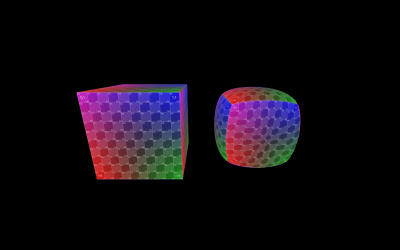
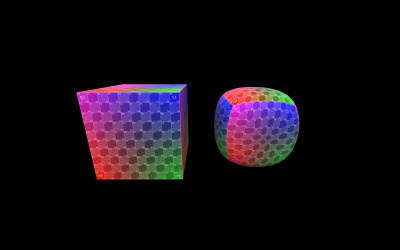
Examples: Updated external subdivision demo (#24930)
* Updated demo to v1.1.2

* Separated wireframe

* Updated screenshot

* Dispose typo

* Simplified lighting

Changed region(s): [[0.51, 0.336, 0.75, 0.672], [0.18, 0.336, 0.48, 0.7]]

diff --git a/examples/webgl_modifier_subdivision.html b/examples/webgl_modifier_subdivision.html
@@ -22,7 +22,7 @@
 				"imports": {
 					"three": "../build/three.module.js",
 					"three/addons/": "./jsm/",
-					"three-subdivide": "https://unpkg.com/three-subdivide@1.0.2/build/index.module.js"
+					"three-subdivide": "https://unpkg.com/three-subdivide@1.1.2/build/index.module.js"
 				}
 			}
 		</script>
@@ -36,16 +36,20 @@
 
 			let renderer, scene, camera;
 			let texture;
-			let meshMaterial, meshNormal, meshSmooth;
-			let wireMaterial, wireNormal, wireSmooth;
+			let meshNormal, meshSmooth;
+			let wireNormal, wireSmooth;
+			let wireMaterial;
 
 			const params = {
 				geometry: 'Box',
 				iterations: 3,
 				split: true,
 				uvSmooth: false,
+				preserveEdges: false,
 				flatOnly: false,
 				maxTriangles: 25000,
+				flatShading: false,
+				textured: true,
 				wireframe: false
 			};
 
@@ -70,6 +74,14 @@
 				controls.target.set( 0, 0, 0 );
 				controls.update();
 
+				scene.add( new THREE.HemisphereLight( 0xffffff, 0x737373, 1 ) );
+
+				const frontLight = new THREE.DirectionalLight( 0xffffff, 0.5 );
+				const backLight = new THREE.DirectionalLight( 0xffffff, 0.5 );
+				frontLight.position.set( 0, 1, 1 );
+				backLight.position.set( 0, 1, - 1 );
+				scene.add( frontLight, backLight );
+
 				texture = new THREE.TextureLoader().load( './textures/uv_grid_opengl.jpg', () => {
 
 					texture.wrapS = THREE.RepeatWrapping;
@@ -79,15 +91,8 @@
 
 				} );
 
-				meshMaterial = new THREE.MeshBasicMaterial( {
-					map: texture,
-					polygonOffset: true,
-					polygonOffsetFactor: 1, // positive value pushes polygon further away
-					polygonOffsetUnits: 1,
-					side: THREE.DoubleSide
-				} );
-				meshNormal = new THREE.Mesh( new THREE.BufferGeometry(), meshMaterial );
-				meshSmooth = new THREE.Mesh( new THREE.BufferGeometry(), meshMaterial );
+				meshNormal = new THREE.Mesh( new THREE.BufferGeometry(), new THREE.MeshBasicMaterial() );
+				meshSmooth = new THREE.Mesh( new THREE.BufferGeometry(), new THREE.MeshBasicMaterial() );
 				meshNormal.position.set( - 0.7, 0, 0 );
 				meshSmooth.position.set( 0.7, 0, 0 );
 				scene.add( meshNormal, meshSmooth );
@@ -114,7 +119,7 @@
 
 					const geom = params.geometry.toLowerCase();
 
-					params.split = geom === 'box' || geom === 'ring';
+					params.split = geom === 'box' || geom === 'ring' || geom === 'plane';
 					params.uvSmooth = geom === 'circle' || geom === 'plane' || geom === 'ring';
 
 					refreshDisplay();
@@ -123,18 +128,22 @@
 
 				folder1.add( params, 'iterations' ).min( 0 ).max( 5 ).step( 1 ).onFinishChange( updateMeshes );
 				const splitController = folder1.add( params, 'split' ).onFinishChange( updateMeshes );
-				const smoothController = folder1.add( params, 'uvSmooth' ).onFinishChange( updateMeshes );
-				folder1.add( params, 'flatOnly' ).onFinishChange ( updateMeshes );
+				const uvSmoothController = folder1.add( params, 'uvSmooth' ).onFinishChange( updateMeshes );
+				const preserveController = folder1.add( params, 'preserveEdges' ).onFinishChange( updateMeshes );
+				folder1.add( params, 'flatOnly' ).onFinishChange( updateMeshes );
 				folder1.add( params, 'maxTriangles' ).onFinishChange( updateMeshes );
 
-				const folder2 = gui.addFolder( 'View' );
-				folder2.add( params, 'wireframe' ).onFinishChange( updateMeshes );
+				const folder2 = gui.addFolder( 'Material' );
+				folder2.add( params, 'flatShading' ).onFinishChange( updateMaterial );
+				folder2.add( params, 'textured' ).onFinishChange( updateMaterial );
+				folder2.add( params, 'wireframe' ).onFinishChange( updateWireframe );
 
 				function refreshDisplay() {
 
 					geomController.updateDisplay();
 					splitController.updateDisplay();
-					smoothController.updateDisplay();
+					uvSmoothController.updateDisplay();
+					preserveController.updateDisplay();
 
 					updateMeshes();
 
@@ -159,7 +168,7 @@
 						return new THREE.ConeGeometry( 0.6, 1.5, 5, 3 );
 
 					case 'cylinder':
-						return new THREE.CylinderGeometry( 0.5, 0.5, 1, 5, 5 );
+						return new THREE.CylinderGeometry( 0.5, 0.5, 1, 5, 4 );
 
 					case 'dodecahedron':
 						return new THREE.DodecahedronGeometry( 0.6 );
@@ -175,8 +184,8 @@
 
 						for ( let i = 0; i < 65; i += 5 ) {
 
-							let x = ( Math.sin( i * 0.2 ) * Math.sin( i * 0.1 ) * 15 + 50 ) * 1.2;
-							let y = ( i - 5 ) * 3;
+							const x = ( Math.sin( i * 0.2 ) * Math.sin( i * 0.1 ) * 15 + 50 ) * 1.2;
+							const y = ( i - 5 ) * 3;
 							points.push( new THREE.Vector2( x * 0.0075, y * 0.005 ) );
 
 						}
@@ -214,14 +223,8 @@
 			function updateMeshes() {
 
 				const normalGeometry = getGeometry();
-				const smoothGeometry = LoopSubdivision.modify(
-					normalGeometry,
-					params.iterations,
-					params.split,
-					params.uvSmooth,
-					params.flatOnly,
-					params.maxTriangles
-				);
+
+				const smoothGeometry = LoopSubdivision.modify( normalGeometry, params.iterations, params );
 
 				meshNormal.geometry.dispose();
 				meshSmooth.geometry.dispose();
@@ -232,6 +235,71 @@
 				wireSmooth.geometry.dispose();
 				wireNormal.geometry = normalGeometry.clone();
 				wireSmooth.geometry = smoothGeometry.clone();
+
+				updateMaterial();
+
+			}
+
+			function disposeMaterial( material ) {
+
+				const materials = Array.isArray( material ) ? material : [ material ];
+
+				for ( let i = 0; i < materials.length; i ++ ) {
+
+					if ( materials[ i ].dispose ) materials[ i ].dispose();
+
+				}
+
+			}
+
+			function updateMaterial() {
+
+				disposeMaterial( meshNormal.material );
+				disposeMaterial( meshSmooth.material );
+
+				const materialParams = {
+					color: ( params.textured ) ? 0xffffff : 0x808080,
+					flatShading: params.flatShading,
+					map: ( params.textured ) ? texture : null,
+					polygonOffset: true,
+					polygonOffsetFactor: 1, // positive value pushes polygon further away
+					polygonOffsetUnits: 1
+				};
+
+				switch ( params.geometry.toLowerCase() ) {
+
+					case 'circle':
+					case 'lathe':
+					case 'plane':
+					case 'ring':
+
+						materialParams.side = THREE.DoubleSide;
+						break;
+
+					case 'box':
+					case 'capsule':
+					case 'cone':
+					case 'cylinder':
+					case 'dodecahedron':
+					case 'icosahedron':
+					case 'octahedron':
+					case 'sphere':
+					case 'tetrahedron':
+					case 'torus':
+					case 'torusknot':
+
+						materialParams.side = THREE.FrontSide;
+						break;
+
+				}
+
+				meshNormal.material = meshSmooth.material = new THREE.MeshStandardMaterial( materialParams );
+
+				render();
+
+			}
+
+			function updateWireframe() {
 
 				wireNormal.visible = wireSmooth.visible = params.wireframe;
 
